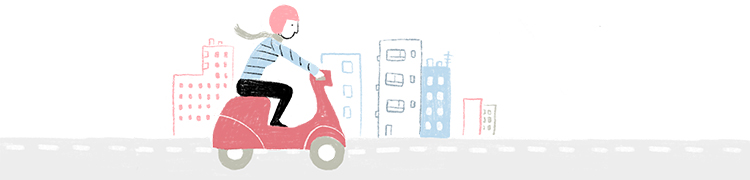
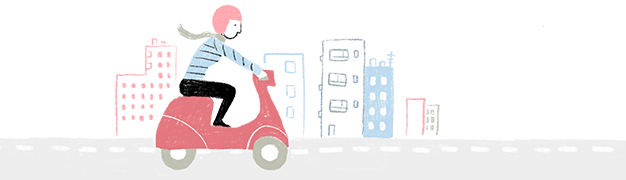
motorcycle

Changed region(s): [[0.1821, 0.0278, 0.7284, 0.9444]]

diff --git a/components/AgendaDay.js b/components/AgendaDay.js
@@ -10,6 +10,10 @@ import Image from "./Image";
 import localization from "../utils/localization";
 import Icon from "./Icon";
 import moment from "moment";
+import Row from "./Row";
+import Divider from "./Divider";
+
+const eventColor = (event) => event.medication ? Colors.turquoise : Colors.fuchsia;
 
 const NoItems = () =>
     <View style={{flex: 1, alignItems: 'center'}}>
@@ -18,16 +22,34 @@ const NoItems = () =>
         <Icon name='down' color={Colors.pink} scale={1.5}/>
     </View>;
 
-const AgendaItem = ({dayTime, details, onEventPressed}) => (
+const AgendaItem = ({dayTime, details, onEventPressed, noDivider}) => (
     <View>
-        <Text>
-            {dayTimeToDisplayString(dayTime)} - {details.medication ? details.medication : details.checkup}
-        </Text>
-        <TouchableOpacity onPress={() => onEventPressed(details)}>
-            <Text>
-                Note: {details.note}
+        <Row>
+            <Text color={eventColor(details)}>
+                {dayTimeToDisplayString(dayTime)}
             </Text>
-        </TouchableOpacity>
+            <Text
+                color={eventColor(details)}
+                size={9}
+                style={[marginStyle(5, 'right'), marginStyle(5, 'left')]}>
+                •
+            </Text>
+            <Text bold>
+                {details.medication ? details.medication : details.checkup}
+            </Text>
+        </Row>
+        {
+            details.note ?
+                <TouchableOpacity onPress={() => onEventPressed(details)}>
+                    <Text size={7} color={Colors.gray} style={marginStyle(2, 'top')}>
+                        {details.note}
+                    </Text>
+                </TouchableOpacity>
+                : null
+        }
+        {
+            noDivider ? null : <Divider/>
+        }
     </View>
 );
 
@@ -38,12 +60,13 @@ export function AgendaDay({momentDate, events, onEventPressed}) {
         </Text>
         {
             !_.isEmpty(events) ?
-                events.map(({dayTime, details}) =>
+                events.map(({dayTime, details}, i) =>
                     <AgendaItem
                         key={shortid.generate()}
                         dayTime={dayTime}
                         details={details}
                         onEventPressed={onEventPressed}
+                        noDivider={i === events.length - 1}
                     />)
                 : <NoItems/>
         }
@@ -53,11 +76,15 @@ export function AgendaDay({momentDate, events, onEventPressed}) {
 export function Agenda({selectedDay, eventedDateMoments, agendaDayRender}) {
     return _.isEmpty(eventedDateMoments) ?
         <NoItems/> :
-        <FlatList
-            data={_.filter(eventedDateMoments, dateMoment =>
-                isAfterOrEquals(dateMoment, moment()) || isAfterOrEquals(dateMoment, wixDateToMoment(selectedDay))
-            )}
-            renderItem={({item}) => agendaDayRender(item)}
-            keyExtractor={item => item.toString()}
-        />
+        <View>
+            <FlatList
+                data={_.filter(eventedDateMoments, dateMoment =>
+                    isAfterOrEquals(dateMoment, moment()) || isAfterOrEquals(dateMoment, wixDateToMoment(selectedDay))
+                )}
+                renderItem={({item}) => agendaDayRender(item)}
+                keyExtractor={item => item.toString()}
+                ItemSeparatorComponent={() => <Divider/>}
+            />
+            <Image name='motorcycle' height={80} width={200} style={marginStyle(10, 'top')}/>
+        </View>
 }

diff --git a/components/Image.js b/components/Image.js
@@ -1,8 +1,10 @@
 import React from "react";
-import Beach from "../assets/images/beach.png"
-import BeachAnimation from "../assets/images/beach.gif"
 import {Image} from "react-native";
 import {hwStyle} from "../constants/Styles";
+
+import Beach from "../assets/images/beach.png"
+import BeachAnimation from "../assets/images/beach.gif"
+import Motorcycle from "../assets/images/motorcycle.jpg"
 
 const getImageByName = (name) => {
     switch (name) {
@@ -10,6 +12,8 @@ const getImageByName = (name) => {
             return Beach;
         case "beachAnimation":
             return BeachAnimation;
+        case "motorcycle":
+            return Motorcycle;
         default:
             return null;
     }

diff --git a/components/Divider.js b/components/Divider.js
@@ -1,0 +1,17 @@
+import React from 'react'
+import styled from 'styled-components'
+import {View} from "react-native";
+import Colors from "../constants/Colors";
+import {marginStyle} from "../constants/Styles";
+
+const StyledView = styled(View)`
+border-width: 0.5px;
+border-color: ${props => props.color || Colors.gray};
+opacity: 0.5;
+`;
+
+export default ({color}) =>
+    <StyledView color={color} style={[
+        marginStyle(10, 'top'),
+        marginStyle(10, 'bottom')
+    ]}/>;

diff --git a/screens/Main/Calendar/CalendarTab.js b/screens/Main/Calendar/CalendarTab.js
@@ -20,7 +20,7 @@ import IconAndText from "../../../components/IconAndText";
 import Drawer from "../../../components/Drawer";
 import {Agenda, AgendaDay} from "../../../components/AgendaDay";
 
-const selectedDayColoring = {selected: true, marked: true, selectedColor: Colors.purple};
+const selectedDayColoring = {selected: true, marked: true, selectedColor: Colors.gray};
 
 function collectEventsForDate(eventsByDay, selectedDay) {
     const eventsForDay = eventsByDay[selectedDay];
